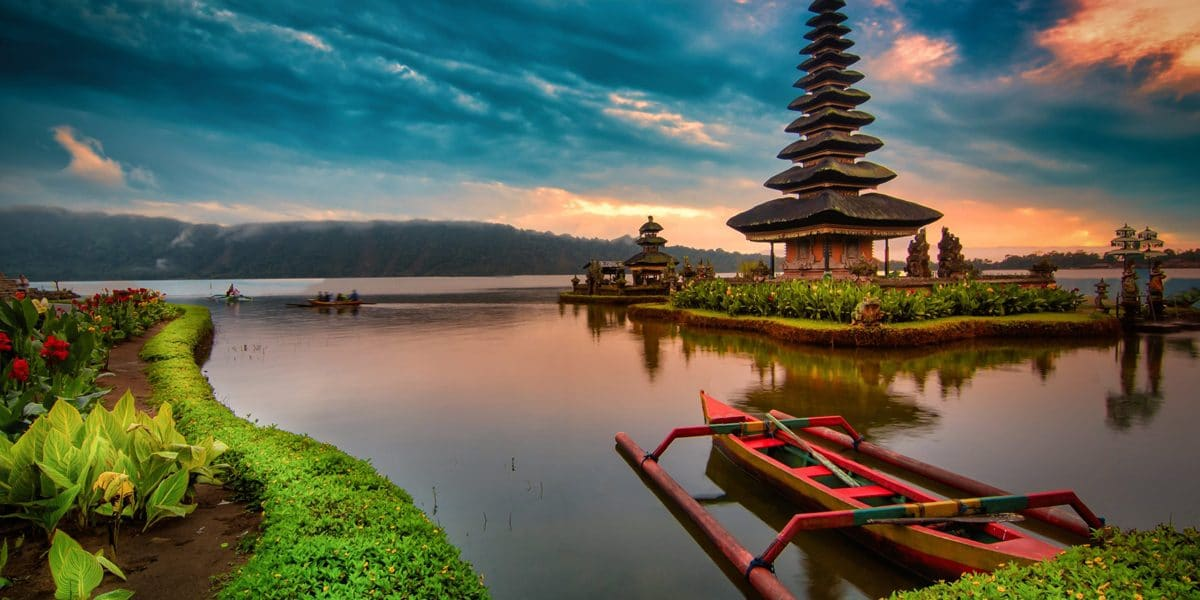
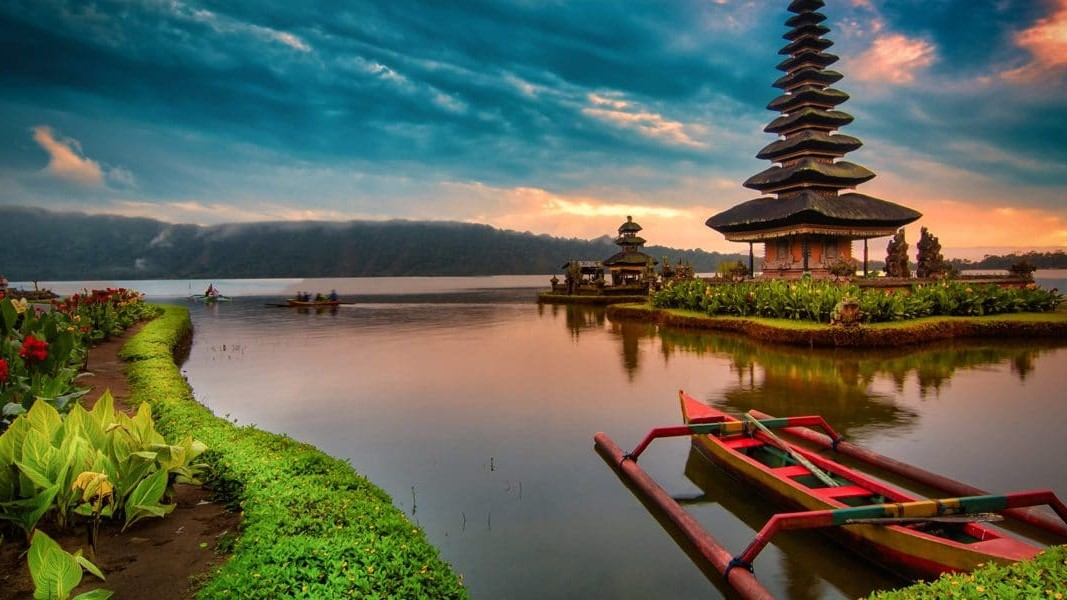
Update auto slide

diff --git a/css/style.css b/css/style.css
@@ -102,9 +102,7 @@ hr {
 }
 
 .images {
-    width:50rem;
-    position: relative;
-    height: 30rem;
+    width:100%;
     border-radius: 1rem;
     box-shadow: 4px 4px 20px 0px rgba(0,0,0,0.75);
     -webkit-box-shadow: 4px 4px 20px 0px rgba(0,0,0,0.75);
